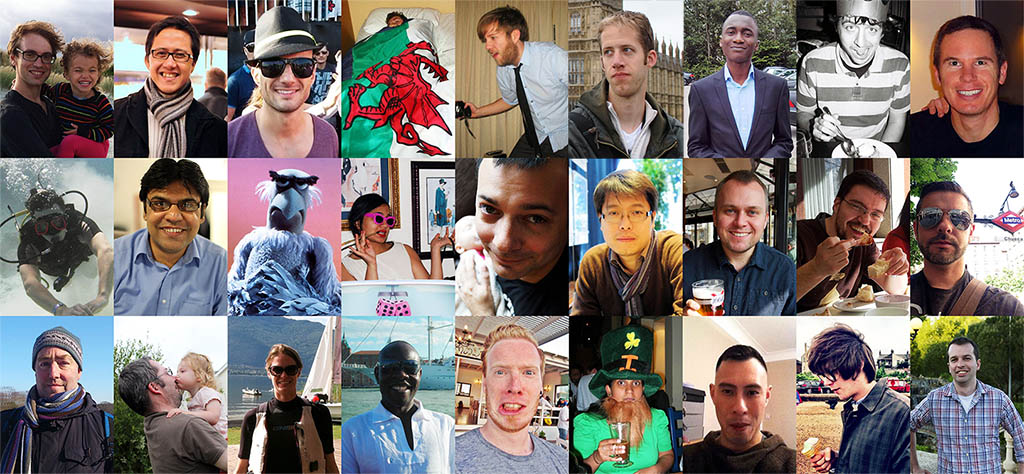
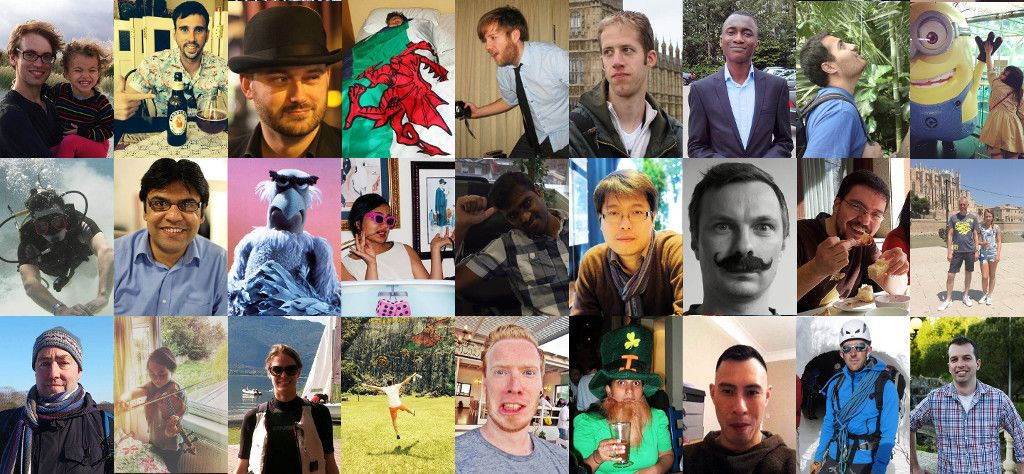
Updated personal headshots.

diff --git a/assets/js/min/joinit-springer.min.js b/assets/js/min/joinit-springer.min.js
@@ -1,2 +1,2 @@
-/*! joinit-springer 2014-12-04 */
-!function(a){a.fn.fitText=function(b,c){var d=b||1,e=a.extend({minFontSize:Number.NEGATIVE_INFINITY,maxFontSize:Number.POSITIVE_INFINITY},c);return this.each(function(){var b=a(this),c=function(){b.css("font-size",Math.max(Math.min(b.width()/(10*d),parseFloat(e.maxFontSize)),parseFloat(e.minFontSize)))};c(),a(window).on("resize.fittext orientationchange.fittext",c)})}}(jQuery),function(a){a.fn.imageFlipper=function(b){var c=a.extend({rows:3,columns:9},b),d=["Jim, software engineer.","Aditya, ux designer.","Pat, technical principal.","Rob, front-end developer.","Chris, software engineer.","Hilverd, software engineer.","Uthman, quality analyst.","Dan, software engineer.","Ben, agile coach.","Cris, software engineer.","Rizwan, software engineer.","Stephen, business analyst.","Reshma, all round great person.","Brian, product owner.","Ai, software engineer.","Ross, technical architect.","Hector, platform engineer.","Paulo, ux designer.","John, software engineer.","Mike, technical architect.","Kristen, business analyst.","Charles, quality analyst.","Todd, front-end developer.","Anjalie, business analyst.","Andrew, ui designer.","Simon, platform engineer.","Rob, software engineer."];return this.each(function(){var b=a(this),e=responsiveImages.getImagePrefix({_tablet:1023,_widescreen:99999}),f=responsiveImages.buildImagePath(b.data("frontimage"),e),g=responsiveImages.buildImagePath(b.data("backimage"),e),h=a("<img/>"),i=a("<img/>"),j=b.data("cssprefix"),k=0,l=0,m=a("<ul/>").addClass("imageFlipper");h.on("load",function(){var e=this,h=responsiveImages.isRetina?2:1;l=e.height/c.rows/h,k=e.width/c.columns/h;for(var n=0,o=0,p=0;n<c.rows*c.columns;){{var q=a("<li title='"+d[n]+"'/>").css({width:k,height:l}).attr("tabIndex",0).on("click",function(){var b=a(this);b.addClass("over").siblings().removeClass("over")}).appendTo(m),r=a("<div/>").appendTo(q);a("<span class='front'/>").css({backgroundImage:"url("+j+f+")",backgroundPosition:-k*p+"px -"+l*o+"px",backgroundSize:e.width/h+"px "+e.height/h+"px",width:k,height:l,display:"block"}).appendTo(r),a("<span class='back'/>").css({backgroundImage:"url("+j+g+")",backgroundPosition:-k*p+"px -"+l*o+"px",backgroundSize:e.width/h+"px "+e.height/h+"px",width:k,height:l,display:"block"}).appendTo(r)}n++,o=Math.floor(n/c.columns),p=n%c.columns}i.attr("src",j+g),m.insertAfter(b)}),h.attr("src",j+f)})}}(jQuery),window.jQuery&&function(a){a.extend({xml2json:function(b,c){function d(b,g){if(!b)return null;{var h="",i=null,j=null;b.nodeType,e(b.localName||b.nodeName),b.text||b.nodeValue||""}b.childNodes&&b.childNodes.length>0&&a.each(b.childNodes,function(a,b){var c=b.nodeType,g=e(b.localName||b.nodeName),j=b.text||b.nodeValue||"";if(8!=c)if(3!=c&&4!=c&&g)i=i||{},i[g]?(i[g].length||(i[g]=f(i[g])),i[g]=f(i[g]),i[g][i[g].length]=d(b,!0),i[g].length=i[g].length):i[g]=d(b);else{if(j.match(/^\s+$/))return;h+=j.replace(/^\s+/,"").replace(/\s+$/,"")}}),b.attributes&&b.attributes.length>0&&(j={},i=i||{},a.each(b.attributes,function(a,b){var c=e(b.name),d=b.value;j[c]=d,i[c]?(i[cnn]=f(i[cnn]),i[c][i[c].length]=d,i[c].length=i[c].length):i[c]=d})),i&&(i=a.extend(""!=h?new String(h):{},i||{}),h=i.text?[i.text||""].concat([h]):h,h&&(i.text=h),h="");var k=i||h;return c&&(h&&(k={}),h=k.text||h||"",h&&(k.text=h),g||(k=f(k))),k}if(!b)return{};var e=function(a){return String(a||"").replace(/-/g,"_")},f=function(b){return a.isArray(b)||(b=[b]),b.length=b.length,b};if("string"==typeof b&&(b=a.text2xml(b)),b.nodeType){if(3==b.nodeType||4==b.nodeType)return b.nodeValue;var g=9==b.nodeType?b.documentElement:b,h=d(g,!0);return b=null,g=null,h}},text2xml:function(b){return a.parseXML(b)}})}(jQuery),function(){function a(){var a=f.$w.scrollTop(),b=f.$w.innerHeight(),c=Math.floor((a+b/2-f.parFx.position().top)/f.panelHeight);f.panels.removeClass("active").eq(c).addClass("active")}function b(){{var a=f.$w.innerHeight(),b=f.$w.scrollTop();$("html").innerHeight()}f.panels.each(function(){var c=$(this),d=c.position(),e=c.find("img"),g=d.top>a+b||d.top+c.innerHeight()<b;if(!g){var h=e.innerHeight()-f.panelHeight,i=h/(a/(b-d.top));e.css({"-webkit-transform":"translateY("+i+"px)","-moz-transform":"translateY("+i+"px)","-ms-transform":"translateY("+i+"px)",transform:"translateY("+i+"px)"})}})}function c(){var a=f.parFx.innerWidth();f.panelHeight=a*h.imageRatio(),f.panels.each(function(){$(this).css({height:Math.floor(f.panelHeight),"font-size":a/g*100+"%"})})}function d(){var a=!0;responsiveImages.noscriptHack($(".storyboards").find(".responsive"),{_smartphone:600,_tablet:1024,_widescreen:99999},function(){h.noParallax()||b()},a),responsiveImages.noscriptHack($(".our-workplace .home-section__grid, .our-culture, .home-section--our-people, .looking-for__photo").find(".responsive"),{_tablet:1024,_widescreen:99999},null,a),responsiveImages.noscriptHack($(".our-workplace .map, .our-products__product").find(".responsive"),{_tablet:1024,_widescreen:99999})}function e(){$.ajax({url:"http://hire.jobvite.com/CompanyJobs/Xml.aspx?c=q8w9Vfws",dataType:"xml",success:function(a){var b=$.xml2json(a);if("object"==typeof b&&b.hasOwnProperty("job"))for(var c=0;c<b.job.length;c++)if(b.job[c].hasOwnProperty("category")&&"Information Technology"==b.job[c].category){var d=b.job[c],e=d.location.replace(/United Kingdom/gi,"UK"),f='<li class="job-vacancies__vacancy"><a class="vacancy__role" href="'+d.detail_url+'"><strong>';f+=d.title.split("-")[0].trim()+'</strong> <span class="vacancy__location">'+e+"</span></a></li>",$(f).insertBefore(".job-vacancies__vacancy.cross-link")}}})}var f={},g=1440,h={mobileBreakPoint:1024,isMobile:function(){return f.$w.innerWidth()<=h.mobileBreakPoint},imageRatio:function(){return this.noParallax()?.4:.4},isTouch:"ontouchstart"in window||navigator.msMaxTouchPoints>0,isIe:$("html").is(".ie9, .lt-ie9"),ieVer:function(){for(var a=$("html"),b=null,c=7;10>c;c++)if(a.is(".ie"+c)){b=c;break}return b}(),noParallax:function(){return!0}};$().ready(function(){$("html").removeClass("no-js"),e();var g=$("<div/>").addClass("QRcode");$("<img/>").attr({src:"https://chart.googleapis.com/chart?cht=qr&chs=75x75&chl="+location.href}).appendTo(g),$("<span/>").text(location.href).appendTo(g),g.appendTo($(".roles .home-section__heading"));var i=$(".storyboards__wrapper"),j=(i.position(),i.children(".storyboards__board")),k=$(window),l=j.eq(0).innerHeight();f={parFx:i,panels:j,$w:k,panelHeight:l,fitTexts:$(".fitText")},f.fitTexts.each(function(){var a=$(this);a.fitText(parseFloat(a.data("fittextcompressor")||1),{minFontSize:parseFloat(a.data("fittextminsize")||14)})}),k.on("resize",function(){$(document.body).toggleClass("noParallax",h.noParallax()),c(),a(),h.noParallax()||b()}),k.on("scroll",function(){a(),h.noParallax()||b()}),i.on("click","a",function(a){a.preventDefault();var b=$(this).closest(".storyboards__board").next(),c=f.$w.innerHeight();scrollTop=b.position().top-c/2+b.innerHeight()/2,$("html,body").animate({scrollTop:scrollTop},600)}),d(),(!h.ieVer||h.ieVer>8)&&$(".imageFlipper").imageFlipper(),k.resize()})}(),function(){$(document.body).toggleClass("mobile",$(window).innerWidth()<1024),window.responsiveImages={noscriptHack:function(a,b,c,d){var e=responsiveImages.getImagePrefix(b,d);a.each(function(){var a=$(this),b=a.data("imgclass"),d=a.attr("alt"),f=responsiveImages.buildImagePath(a.data("baseimg"),e),g=window.document.createElement("img"),h=$(g);c&&h.on("load",c),g.src=f,h.addClass(b).attr("alt",d).insertAfter(a)})},getImagePrefix:function(a,b){var c=1==b?!1:responsiveImages.isRetina,d=$(window).innerWidth();imgFormat="";for(var e in a)if(d<a[e]){imgFormat=e;break}return imgFormat=c?imgFormat+"@2x":imgFormat},buildImagePath:function(a,b){var c=a.split("."),d=c[0],e=c[1];return d+b+"."+e},isRetina:window.devicePixelRatio>1||window.matchMedia&&window.matchMedia("(-webkit-min-device-pixel-ratio: 1.5),(-moz-min-device-pixel-ratio: 1.5),(min-device-pixel-ratio: 1.5)").matches}}();
+/*! joinit-springer 2014-12-17 */
+!function(a){a.fn.fitText=function(b,c){var d=b||1,e=a.extend({minFontSize:Number.NEGATIVE_INFINITY,maxFontSize:Number.POSITIVE_INFINITY},c);return this.each(function(){var b=a(this),c=function(){b.css("font-size",Math.max(Math.min(b.width()/(10*d),parseFloat(e.maxFontSize)),parseFloat(e.minFontSize)))};c(),a(window).on("resize.fittext orientationchange.fittext",c)})}}(jQuery),function(a){a.fn.imageFlipper=function(b){var c=a.extend({rows:3,columns:9},b),d=["Jim, software engineer.","David, front-end developer.","Andrew, ux designer.","Rob, front-end developer.","Chris, software engineer.","Hilverd, software engineer.","Uthman, quality analyst.","Gavin, quality analyst engineer.","Jorja, developer.","Cris, software engineer.","Rizwan, software engineer.","Stephen, business analyst.","Reshma, all round great person.","Shankar, quality analyst.","Ai, software engineer.","Piotr, systems administrator.","Hector, platform engineer.","John, project manager.","John, software engineer.","Wenxin, technical support analyst.","Kristen, business analyst.","Carlos, quality analyst.","Todd, front-end developer.","Anjalie, business analyst.","Andrew, ui designer.","Jake, technical business analyst.","Rob, software engineer."];return this.each(function(){var b=a(this),e=responsiveImages.getImagePrefix({_tablet:1023,_widescreen:99999}),f=responsiveImages.buildImagePath(b.data("frontimage"),e),g=responsiveImages.buildImagePath(b.data("backimage"),e),h=a("<img/>"),i=a("<img/>"),j=b.data("cssprefix"),k=0,l=0,m=a("<ul/>").addClass("imageFlipper");h.on("load",function(){var e=this,h=responsiveImages.isRetina?2:1;l=e.height/c.rows/h,k=e.width/c.columns/h;for(var n=0,o=0,p=0;n<c.rows*c.columns;){{var q=a("<li title='"+d[n]+"'/>").css({width:k,height:l}).attr("tabIndex",0).on("click",function(){var b=a(this);b.addClass("over").siblings().removeClass("over")}).appendTo(m),r=a("<div/>").appendTo(q);a("<span class='front'/>").css({backgroundImage:"url("+j+f+")",backgroundPosition:-k*p+"px -"+l*o+"px",backgroundSize:e.width/h+"px "+e.height/h+"px",width:k,height:l,display:"block"}).appendTo(r),a("<span class='back'/>").css({backgroundImage:"url("+j+g+")",backgroundPosition:-k*p+"px -"+l*o+"px",backgroundSize:e.width/h+"px "+e.height/h+"px",width:k,height:l,display:"block"}).appendTo(r)}n++,o=Math.floor(n/c.columns),p=n%c.columns}i.attr("src",j+g),m.insertAfter(b)}),h.attr("src",j+f)})}}(jQuery),window.jQuery&&function(a){a.extend({xml2json:function(b,c){function d(b,g){if(!b)return null;{var h="",i=null,j=null;b.nodeType,e(b.localName||b.nodeName),b.text||b.nodeValue||""}b.childNodes&&b.childNodes.length>0&&a.each(b.childNodes,function(a,b){var c=b.nodeType,g=e(b.localName||b.nodeName),j=b.text||b.nodeValue||"";if(8!=c)if(3!=c&&4!=c&&g)i=i||{},i[g]?(i[g].length||(i[g]=f(i[g])),i[g]=f(i[g]),i[g][i[g].length]=d(b,!0),i[g].length=i[g].length):i[g]=d(b);else{if(j.match(/^\s+$/))return;h+=j.replace(/^\s+/,"").replace(/\s+$/,"")}}),b.attributes&&b.attributes.length>0&&(j={},i=i||{},a.each(b.attributes,function(a,b){var c=e(b.name),d=b.value;j[c]=d,i[c]?(i[cnn]=f(i[cnn]),i[c][i[c].length]=d,i[c].length=i[c].length):i[c]=d})),i&&(i=a.extend(""!=h?new String(h):{},i||{}),h=i.text?[i.text||""].concat([h]):h,h&&(i.text=h),h="");var k=i||h;return c&&(h&&(k={}),h=k.text||h||"",h&&(k.text=h),g||(k=f(k))),k}if(!b)return{};var e=function(a){return String(a||"").replace(/-/g,"_")},f=function(b){return a.isArray(b)||(b=[b]),b.length=b.length,b};if("string"==typeof b&&(b=a.text2xml(b)),b.nodeType){if(3==b.nodeType||4==b.nodeType)return b.nodeValue;var g=9==b.nodeType?b.documentElement:b,h=d(g,!0);return b=null,g=null,h}},text2xml:function(b){return a.parseXML(b)}})}(jQuery),function(){function a(){var a=f.$w.scrollTop(),b=f.$w.innerHeight(),c=Math.floor((a+b/2-f.parFx.position().top)/f.panelHeight);f.panels.removeClass("active").eq(c).addClass("active")}function b(){{var a=f.$w.innerHeight(),b=f.$w.scrollTop();$("html").innerHeight()}f.panels.each(function(){var c=$(this),d=c.position(),e=c.find("img"),g=d.top>a+b||d.top+c.innerHeight()<b;if(!g){var h=e.innerHeight()-f.panelHeight,i=h/(a/(b-d.top));e.css({"-webkit-transform":"translateY("+i+"px)","-moz-transform":"translateY("+i+"px)","-ms-transform":"translateY("+i+"px)",transform:"translateY("+i+"px)"})}})}function c(){var a=f.parFx.innerWidth();f.panelHeight=a*h.imageRatio(),f.panels.each(function(){$(this).css({height:Math.floor(f.panelHeight),"font-size":a/g*100+"%"})})}function d(){var a=!0;responsiveImages.noscriptHack($(".storyboards").find(".responsive"),{_smartphone:600,_tablet:1024,_widescreen:99999},function(){h.noParallax()||b()},a),responsiveImages.noscriptHack($(".our-workplace .home-section__grid, .our-culture, .home-section--our-people, .looking-for__photo").find(".responsive"),{_tablet:1024,_widescreen:99999},null,a),responsiveImages.noscriptHack($(".our-workplace .map, .our-products__product").find(".responsive"),{_tablet:1024,_widescreen:99999})}function e(){$.ajax({url:"http://hire.jobvite.com/CompanyJobs/Xml.aspx?c=q8w9Vfws",dataType:"xml",success:function(a){var b=$.xml2json(a);if("object"==typeof b&&b.hasOwnProperty("job"))for(var c=0;c<b.job.length;c++)if(b.job[c].hasOwnProperty("category")&&"Information Technology"==b.job[c].category){var d=b.job[c],e=d.location.replace(/United Kingdom/gi,"UK"),f='<li class="job-vacancies__vacancy"><a class="vacancy__role" href="'+d.detail_url+'"><strong>';f+=d.title.split("-")[0].trim()+'</strong> <span class="vacancy__location">'+e+"</span></a></li>",$(f).insertBefore(".job-vacancies__vacancy.cross-link")}},error:function(){var a="http://search.jobvite.com/web/modules/layout/companyDetails.htm?cId=q8w9Vfws&jId=oWXHZfwj&cl=http://hire.jobvite.com/Logo/2341_Springer.png&cn=Springer-Verlag%20UK",b='<li class="job-vacancies__vacancy"><a class="vacancy__role" href="'+a+'"><strong>View current vacancies</strong></a></li>';$(b).insertBefore(".job-vacancies__vacancy.cross-link")}})}var f={},g=1440,h={mobileBreakPoint:1024,isMobile:function(){return f.$w.innerWidth()<=h.mobileBreakPoint},imageRatio:function(){return this.noParallax()?.4:.4},isTouch:"ontouchstart"in window||navigator.msMaxTouchPoints>0,isIe:$("html").is(".ie9, .lt-ie9"),ieVer:function(){for(var a=$("html"),b=null,c=7;10>c;c++)if(a.is(".ie"+c)){b=c;break}return b}(),noParallax:function(){return!0}};$().ready(function(){$("html").removeClass("no-js"),e();var g=$("<div/>").addClass("QRcode");$("<img/>").attr({src:"https://chart.googleapis.com/chart?cht=qr&chs=75x75&chl="+location.href}).appendTo(g),$("<span/>").text(location.href).appendTo(g),g.appendTo($(".roles .home-section__heading"));var i=$(".storyboards__wrapper"),j=(i.position(),i.children(".storyboards__board")),k=$(window),l=j.eq(0).innerHeight();f={parFx:i,panels:j,$w:k,panelHeight:l,fitTexts:$(".fitText")},f.fitTexts.each(function(){var a=$(this);a.fitText(parseFloat(a.data("fittextcompressor")||1),{minFontSize:parseFloat(a.data("fittextminsize")||14)})}),k.on("resize",function(){$(document.body).toggleClass("noParallax",h.noParallax()),c(),a(),h.noParallax()||b()}),k.on("scroll",function(){a(),h.noParallax()||b()}),i.on("click","a",function(a){a.preventDefault();var b=$(this).closest(".storyboards__board").next(),c=f.$w.innerHeight();scrollTop=b.position().top-c/2+b.innerHeight()/2,$("html,body").animate({scrollTop:scrollTop},600)}),d(),(!h.ieVer||h.ieVer>8)&&$(".imageFlipper").imageFlipper(),k.resize()})}(),function(){$(document.body).toggleClass("mobile",$(window).innerWidth()<1024),window.responsiveImages={noscriptHack:function(a,b,c,d){var e=responsiveImages.getImagePrefix(b,d);a.each(function(){var a=$(this),b=a.data("imgclass"),d=a.attr("alt"),f=responsiveImages.buildImagePath(a.data("baseimg"),e),g=window.document.createElement("img"),h=$(g);c&&h.on("load",c),g.src=f,h.addClass(b).attr("alt",d).insertAfter(a)})},getImagePrefix:function(a,b){var c=1==b?!1:responsiveImages.isRetina,d=$(window).innerWidth();imgFormat="";for(var e in a)if(d<a[e]){imgFormat=e;break}return imgFormat=c?imgFormat+"@2x":imgFormat},buildImagePath:function(a,b){var c=a.split("."),d=c[0],e=c[1];return d+b+"."+e},isRetina:window.devicePixelRatio>1||window.matchMedia&&window.matchMedia("(-webkit-min-device-pixel-ratio: 1.5),(-moz-min-device-pixel-ratio: 1.5),(min-device-pixel-ratio: 1.5)").matches}}();

diff --git a/assets/js/main.js b/assets/js/main.js
@@ -237,8 +237,8 @@
     function renderJobviteFeed() {
       $.ajax({
         url: "http://hire.jobvite.com/CompanyJobs/Xml.aspx?c=q8w9Vfws",
-          dataType: "xml",     
-          success: function (xml, status) {
+        dataType: "xml",     
+        success: function (xml, status) {
             var json = $.xml2json(xml);
 
             if(typeof json == "object" && json.hasOwnProperty("job")) {
@@ -247,25 +247,26 @@
 
                 if(json.job[i].hasOwnProperty("category") && json.job[i].category == "Information Technology") {
 
-              var job = json.job[i];
-              var location = job.location.replace(/United Kingdom/gi,'UK');
-              var el = '<li class="job-vacancies__vacancy"><a class="vacancy__role" href="' + job.detail_url + '"><strong>';
-              el += job.title.split("-")[0].trim() + '</strong> <span class="vacancy__location">' + location + '</span></a></li>';
-              $(el).insertBefore(".job-vacancies__vacancy.cross-link");
+	              var job = json.job[i];
+	              var location = job.location.replace(/United Kingdom/gi,'UK');
+	              var el = '<li class="job-vacancies__vacancy"><a class="vacancy__role" href="' + job.detail_url + '"><strong>';
+	              el += job.title.split("-")[0].trim() + '</strong> <span class="vacancy__location">' + location + '</span></a></li>';
+	              $(el).insertBefore(".job-vacancies__vacancy.cross-link");
 
-                } else {
-
-                    // debug
-                    // console.log(status);
-
-                }         
+                }     
 
               }
 
             }
-          }
-      })
+        },
+        error: function(xhr, error) {
+        	    var jobviteSearchResults = "http://search.jobvite.com/web/modules/layout/companyDetails.htm?cId=q8w9Vfws&jId=oWXHZfwj&cl=http://hire.jobvite.com/Logo/2341_Springer.png&cn=Springer-Verlag%20UK";
+                var el = '<li class="job-vacancies__vacancy"><a class="vacancy__role" href="' + jobviteSearchResults + '"><strong>View current vacancies</strong></a></li>';
+                $(el).insertBefore(".job-vacancies__vacancy.cross-link");
+            }
+          });
     }
+   
 
 })();
 

diff --git a/assets/js/imageFlipper.js b/assets/js/imageFlipper.js
@@ -18,31 +18,31 @@
 
     var people = [
     	"Jim, software engineer.",
-    	"Aditya, ux designer.",
-    	"Pat, technical principal.",
+    	"David, front-end developer.",
+    	"Andrew, ux designer.",
     	"Rob, front-end developer.",
     	"Chris, software engineer.",
     	"Hilverd, software engineer.",
     	"Uthman, quality analyst.",
-    	"Dan, software engineer.",
-    	"Ben, agile coach.",
+    	"Gavin, quality analyst engineer.",
+    	"Jorja, developer.",
     	"Cris, software engineer.",
     	"Rizwan, software engineer.",
     	"Stephen, business analyst.",
     	"Reshma, all round great person.",
-    	"Brian, product owner.",
+    	"Shankar, quality analyst.",
     	"Ai, software engineer.",
-    	"Ross, technical architect.",
+    	"Piotr, systems administrator.",
     	"Hector, platform engineer.",
-    	"Paulo, ux designer.",
+    	"John, project manager.",
     	"John, software engineer.",
-    	"Mike, technical architect.",
+    	"Wenxin, technical support analyst.",
     	"Kristen, business analyst.",
-    	"Charles, quality analyst.",
+    	"Carlos, quality analyst.",
     	"Todd, front-end developer.",
     	"Anjalie, business analyst.",
     	"Andrew, ui designer.",
-    	"Simon, platform engineer.",
+    	"Jake, technical business analyst.",
     	"Rob, software engineer."
     ];
 
